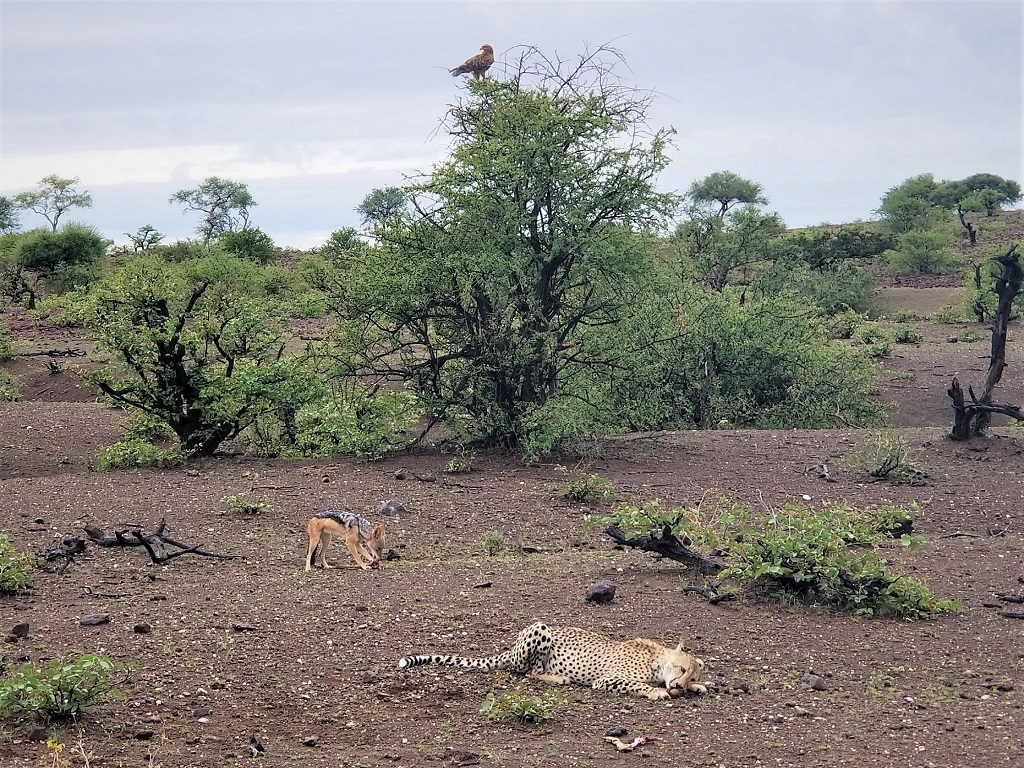
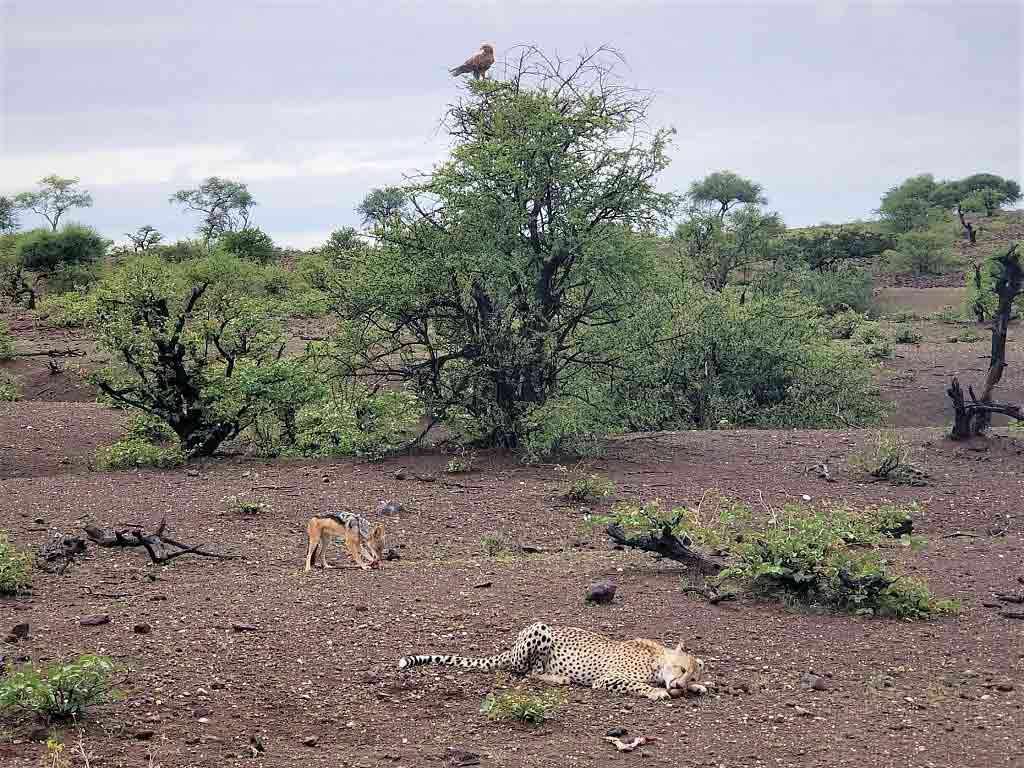
Compress images
Holy slow performance!

Changed region(s): [[0.0, 0.0625, 1.0, 1.0]]

diff --git a/index.html b/index.html
@@ -148,7 +148,7 @@
 
                     <div class="col-md-6 col-sm-12">
                          <div class="contact-image">
-                              <img src="images/mduong-home.jpeg" class="img-responsive" alt="Michelle" width="600" height="600">
+                              <img src="images/mduong-home.jpg" class="img-responsive" alt="Michelle" width="600" height="600">
                          </div>
                     </div>
 
